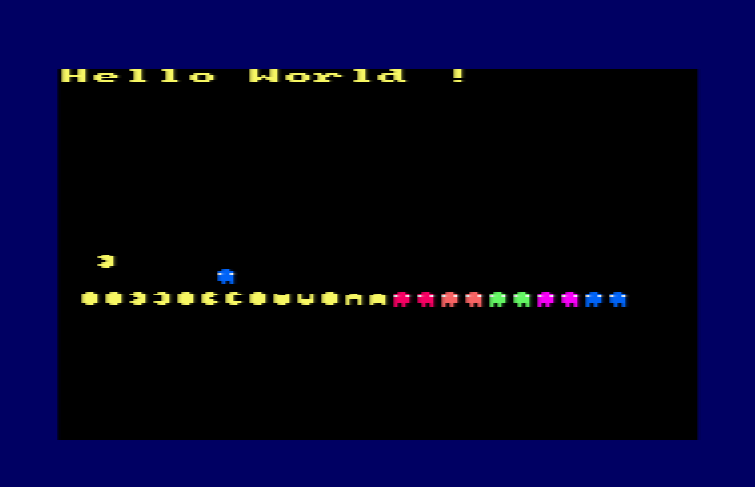
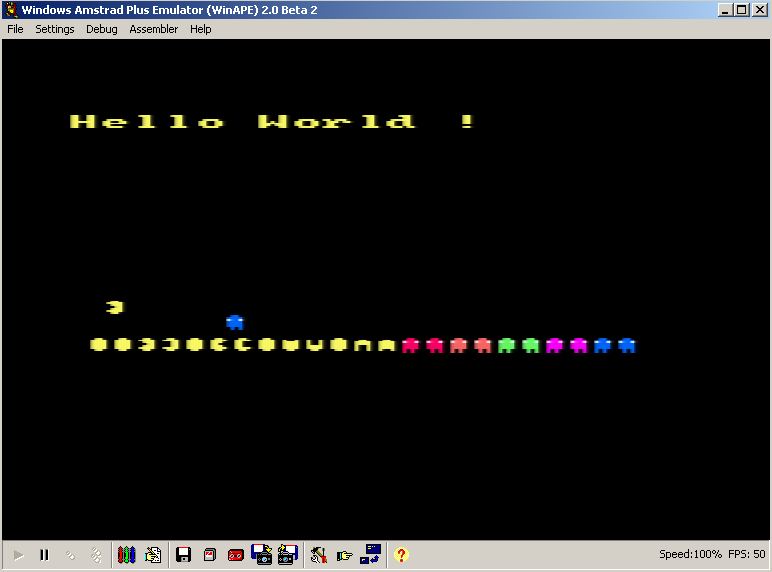
border 0

diff --git a/JDVPA#1_test/main.c b/JDVPA#1_test/main.c
@@ -67,6 +67,7 @@ void main(void)
 	
 	
 	mode(0);
+	border(0);
 	set_palette(game_palette);
 	printf("Hello World !");
 		
